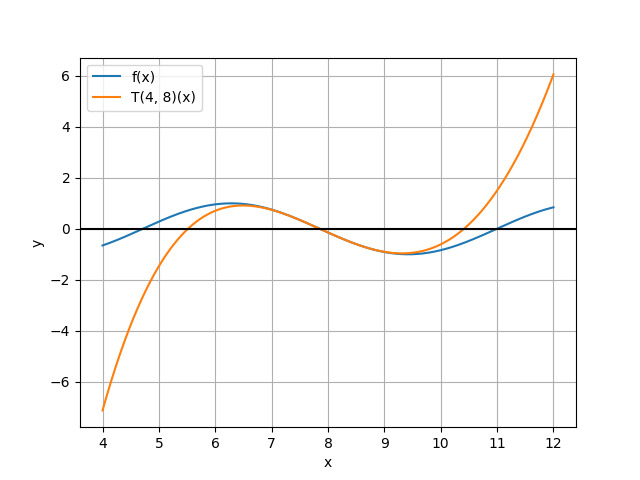
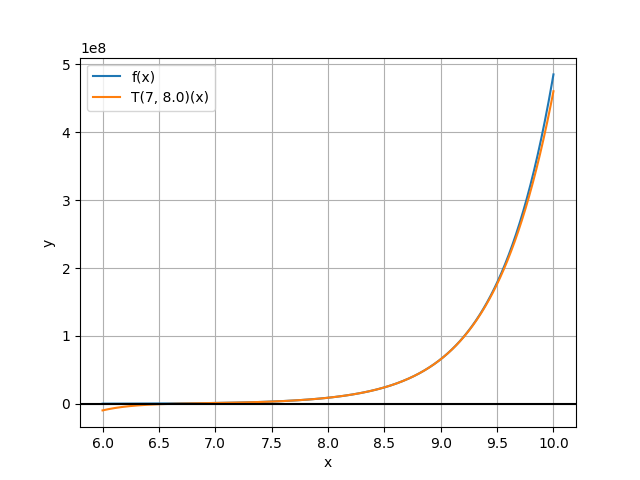
working make_config

diff --git a/taylor_calculator_and_plotter.py b/taylor_calculator_and_plotter.py
@@ -7,51 +7,56 @@ import math as m
 
 import matplotlib.pyplot as plt
 import numpy as np
+from sympy import *
 
-from config import *
+x = symbols('x')
 
 
-def calculate_and_plot():
+def calculate_and_plot(development_point: float = 8,
+                       grade: int = 4,
+                       base_expr=cos(x),
+                       plot_range: int = 4,
+                       draw_x_axis: bool = True):
     # calc ranges for plotting
-    PLOT_MIN_X, PLOT_MAX_X = DEVELOPMENT_POINT - PLOT_RANGE, DEVELOPMENT_POINT + PLOT_RANGE
-    PLOT_POINTS = 1000
+    plot_min_x, plot_max_x = development_point - plot_range, development_point + plot_range
+    plot_points = 1000
 
     # calculate the nth taylor series for the function (BASE_EXPR)
-    base_taylor_expr = Float(lambdify(x, BASE_EXPR)(DEVELOPMENT_POINT))
-    current_function = BASE_EXPR
+    base_taylor_expr = Float(lambdify(x, base_expr)(development_point))
+    current_function = base_expr
 
-    for k in range(1, GRADE + 1):
+    for k in range(1, grade + 1):
         derivative_k = Derivative(current_function, x).doit()
-        derivative_k_solved = lambdify(x, derivative_k)(DEVELOPMENT_POINT)
+        derivative_k_solved = lambdify(x, derivative_k)(development_point)
 
-        base_taylor_expr += (derivative_k_solved / m.factorial(k)) * ((x - DEVELOPMENT_POINT) ** k)
+        base_taylor_expr += (derivative_k_solved / m.factorial(k)) * ((x - development_point) ** k)
 
         current_function = derivative_k
 
     # print resulting taylor expression
-    print('f(x) = ' + str(BASE_EXPR))
-    print(f'T({GRADE}, {DEVELOPMENT_POINT})(x) = ' + str(base_taylor_expr))
+    print('f(x) = ' + str(base_expr))
+    print(f'T({grade}, {development_point})(x) = ' + str(base_taylor_expr))
 
     # and plot both expressions (base_expr and base_taylor_expr)
     # by first making functions out of the two expressions,
     # then calculating in an linear space N points and plotting those points with matplotlib
-    lam_base_expr = lambdify(x, BASE_EXPR, modules=['numpy'])
+    lam_base_expr = lambdify(x, base_expr, modules=['numpy'])
     lam_taylor_expr = lambdify(x, base_taylor_expr, modules=['numpy'])
 
-    x_vals = np.linspace(PLOT_MIN_X, PLOT_MAX_X, PLOT_POINTS)
+    x_vals = np.linspace(plot_min_x, plot_max_x, plot_points)
     y_vals_base_expr, y_vals_taylor_expr = lam_base_expr(x_vals), lam_taylor_expr(x_vals)
 
     # create subplot
     fig, ax = plt.subplots()
     # plot graphs
     ax.plot(x_vals, y_vals_base_expr, label='f(x)')
-    ax.plot(x_vals, y_vals_taylor_expr, label=f'T({GRADE}, {DEVELOPMENT_POINT})(x)')
+    ax.plot(x_vals, y_vals_taylor_expr, label=f'T({grade}, {development_point})(x)')
     # styling (x and y axis, etc.)
     ax.grid(True, which='both')
 
-    if PLOT_MIN_X < 0 < PLOT_MAX_X:
+    if plot_min_x < 0 < plot_max_x:
         ax.axvline(x=0, color='k')
-    if DRAW_X_AXIS:
+    if draw_x_axis:
         ax.axhline(y=0, color='k')
     # set labels, enable legend and show
     plt.xlabel('x')

diff --git a/make_config.py b/make_config.py
@@ -9,4 +9,4 @@ DEVELOPMENT_POINT = float(input('development point [0]: ') or '0')
 GRADE = int(input('grade [4]: ') or '4')
 PLOT_RANGE = int(input('plot range [3]: ') or '3')
 
-calculate_and_plot()
+calculate_and_plot(base_expr=BASE_EXPR, development_point=DEVELOPMENT_POINT, grade=GRADE, plot_range=PLOT_RANGE)
